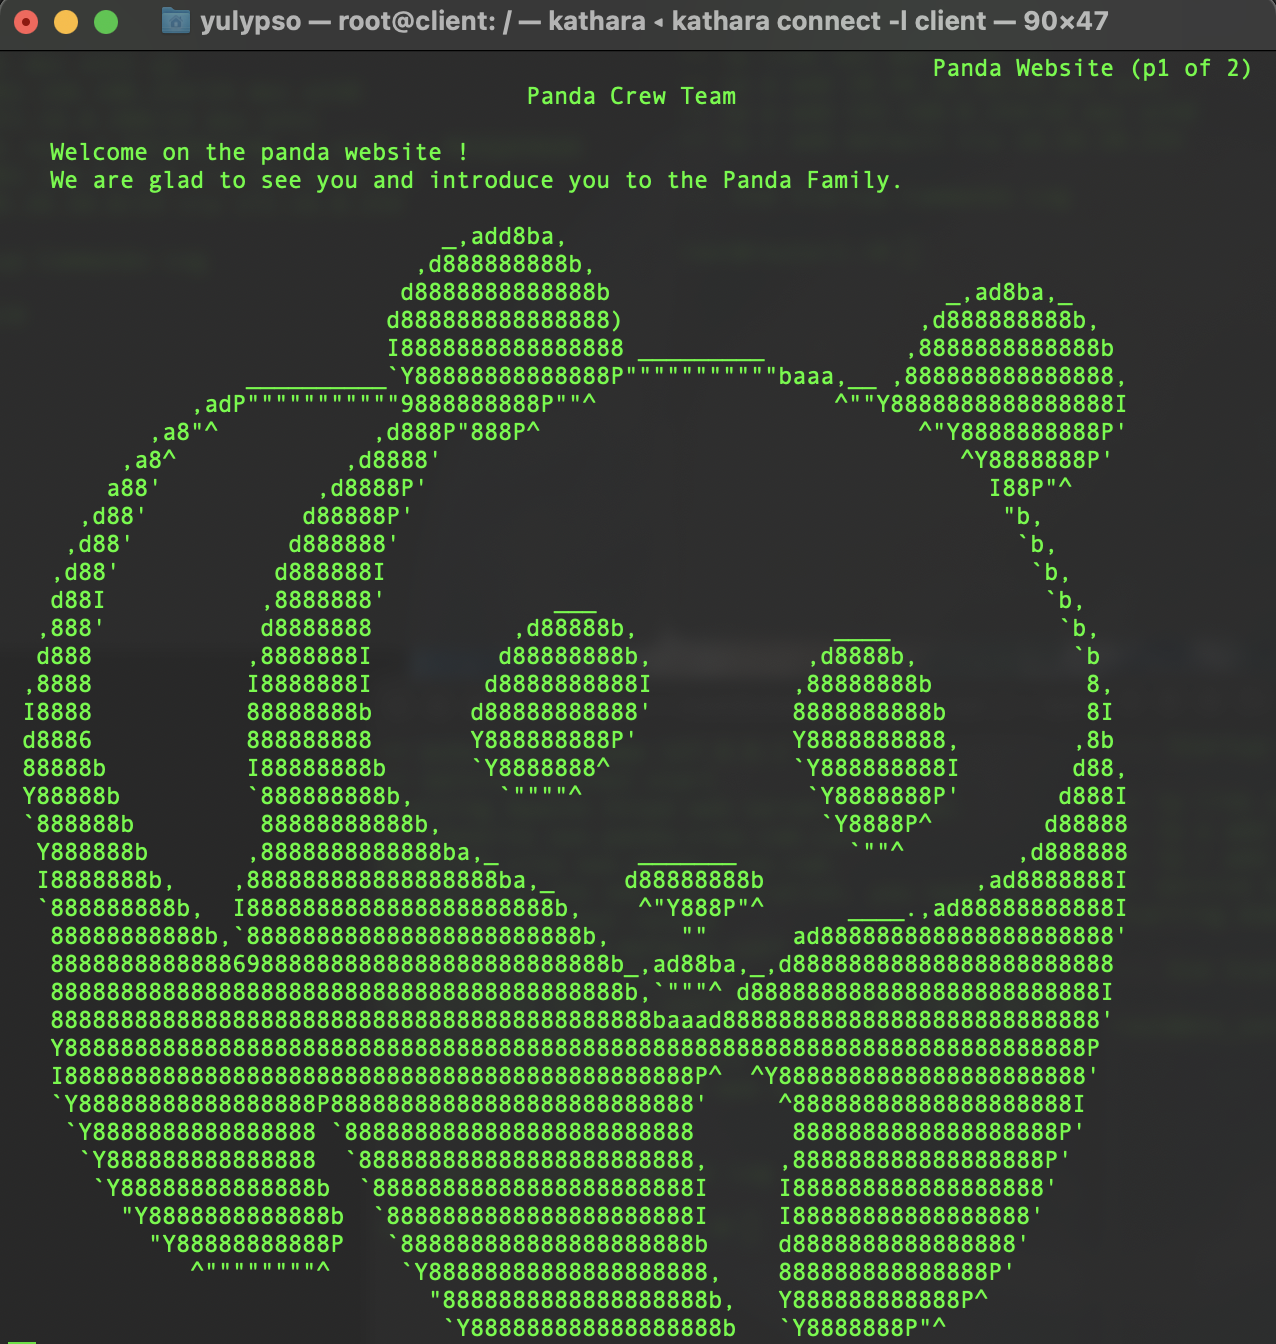
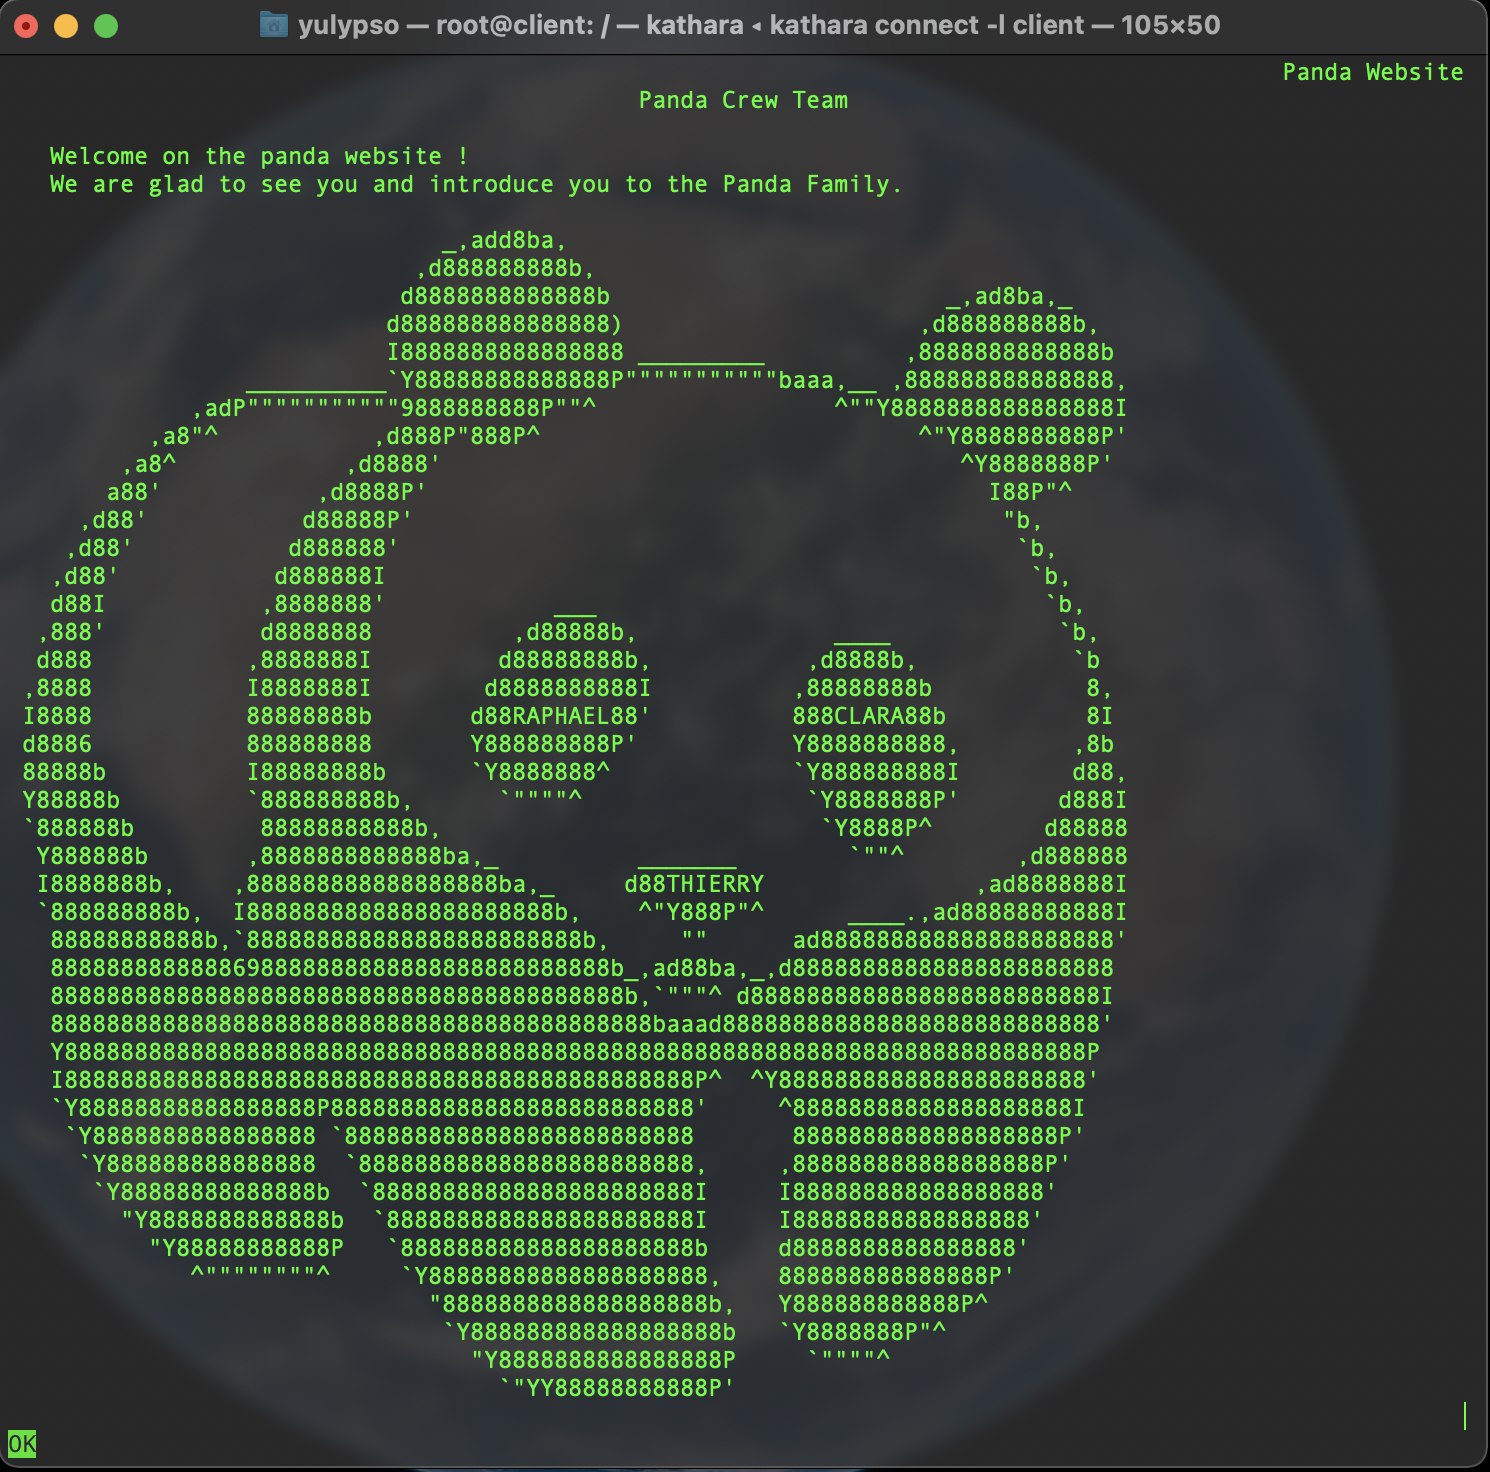
updated README => Raphaël🐼 + Clara🐻❄ + Thierry🐻 in the Panda🐼

diff --git a/README.md b/README.md
@@ -102,7 +102,7 @@ traceroute to www.panda-crew.com (172.16.0.100), 30 hops max, 60 byte packets
 ```
 <br>
 <p align="center" width="100%">
-    <img align="center" width="893" height="941" src="./pictures/panda.png"/>
+    <img align="center" width="969" height="957" src="./pictures/panda.png"/>
 </p>
 
 <br>
